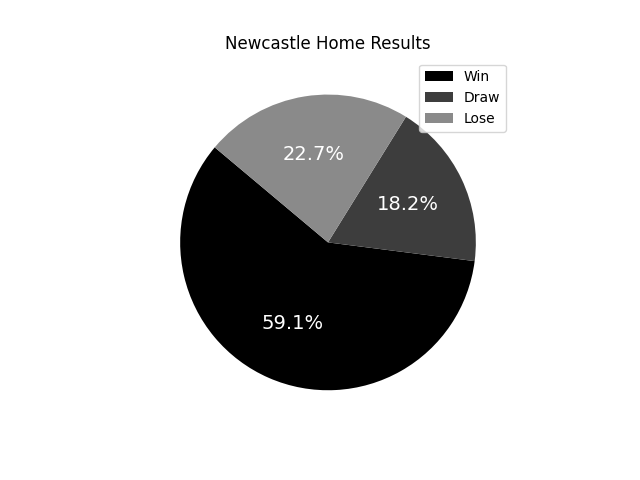
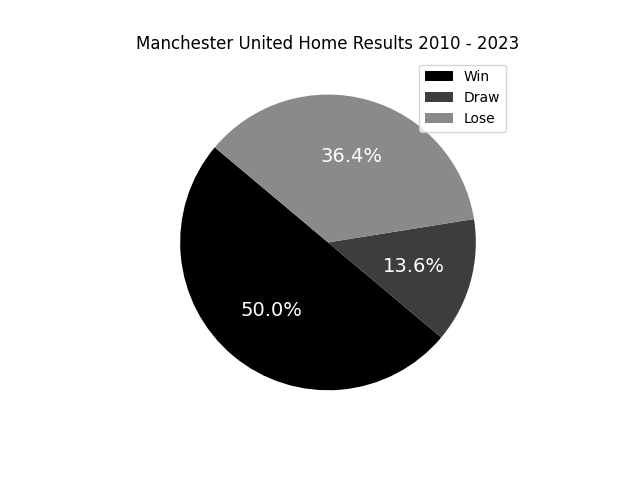
Web Scraping

diff --git a/main.py b/main.py
@@ -5,11 +5,12 @@ import selectorlib
 import matplotlib.pyplot as plt
 import matplotlib.ticker as ticker
 from PIL import Image, ImageDraw, ImageOps
+from bs4 import BeautifulSoup
 
 
 
 
-st.set_page_config(page_title="NUFC Stats", page_icon=":material/edit:", layout="wide",
+st.set_page_config(page_title="NUFC Web App", page_icon=":material/edit:", layout="wide",
 				   initial_sidebar_state="expanded")
 
 team_id = '34'
@@ -158,6 +159,8 @@ for team in response_fix['response']:
 		date = team['fixture']['date']
 		venue = team['fixture']['venue']
 
+team = response_team_stats['response']['team']['name']
+
 # def scrape(url):
 # 	response_scrape = requests.get(url)
 # 	source = response_scrape.text
@@ -204,19 +207,27 @@ with tab1:
 
 	# Add content inside the first column
 	with col1:
+		url_stadium = f"https://en.wikipedia.org/wiki/St_James%27_Park"
+		url_coach = f""
+		url_team = f""
+
+		# Send a GET request to fetch the page content
+		response_stadium = requests.get(url_stadium)
+
+		# Parse the HTML content using BeautifulSoup
+		soup = BeautifulSoup(response_stadium.content, 'html.parser')
+
+		# Find all paragraph tags within the main content area
+		paragraphs = soup.find_all('p')
+
+		# Filter out only the first two non-empty paragraphs
+		first_two_paragraphs_stadium = [p.get_text() for p in paragraphs if p.get_text().strip()][:2]
+
 		st.markdown(
 			f"""
 			<div class="custom-container">
 				<h1><img src="{logo}" alt="NUFC" style="float:left;">{team_name}</h1>
-				<p>Newcastle United Football Club is a professional association football club based in Newcastle upon Tyne,
-				Tyne and Wear, England. The club compete in the Premier League, the top tier of English football. Since the
-				formation of the club in 1892, when Newcastle East End absorbed the assets of Newcastle West End to become
-				Newcastle United, the club has played its home matches at St James' Park. Located in the centre of Newcastle,
-				it currently has a capacity of 52,374. The club has been a member of the Premier League for all but three years
-				of the competition's history, spending 92 seasons in the top flight as of May 2024, and has never dropped below
-				English football's second tier since joining the Football League in 1893. Newcastle have won four League titles,
-				six FA Cups and an FA Charity Shield, as well as the 1968–69 Inter-Cities Fairs Cup, the ninth-highest total of
-				trophies won by an English club.</p>
+				<p>{first_two_paragraphs_stadium}</p>
 			</div>
 			""", unsafe_allow_html=True
 		)
@@ -536,7 +547,7 @@ with tab2:
 		# plt.gca().yaxis.set_major_formatter(ticker.FuncFormatter(lambda rank, _: int(rank)))
 		plt.xlabel('Years')
 		plt.ylabel('Rank')
-		plt.title('Newcastle Standings by Year')
+		plt.title(f'{team} Standings by Year')
 		plt.savefig('data/plot.png')
 		plt_rank_time = 'data/plot.png'
 		image = Image.open(plt_rank_time)
@@ -558,6 +569,7 @@ with tab2:
 		results_away = []
 		legend_home = ['Win', 'Draw', 'Lose']
 		legend_away = ['Win', 'Draw', 'Lose']
+		standings_lst = list(standings_dict.keys())
 
 		for v in response_standings['response']:
 			if 'Premier League' in v['league']['name']:
@@ -580,7 +592,7 @@ with tab2:
 		plt.legend(legend_home, loc='best')
 		plt.xlabel('')
 		plt.ylabel('')
-		plt.title('Newcastle Home Results')
+		plt.title(f'{team} Home Results {standings_lst[0]} - {standings_lst[len(standings_lst) - 1]}')
 		plt.savefig('data/plot_home_results.png')
 		plt_home_time = 'data/plot_home_results.png'
 		image = Image.open(plt_home_time)
@@ -612,7 +624,7 @@ with tab2:
 
 		plt.pie(results_away, textprops={'color': 'white', 'fontsize': 14}, autopct='%1.1f%%', startangle=140, colors=colours)
 		plt.legend(legend_away, loc='best')
-		plt.title('Newcastle Away Results')
+		plt.title(f'{team} Away Results {standings_lst[0]} - {standings_lst[len(standings_lst) - 1]}')
 		plt.savefig('data/plot_away_results.png')
 		plt_away_time = 'data/plot_away_results.png'
 		image = Image.open(plt_away_time)
